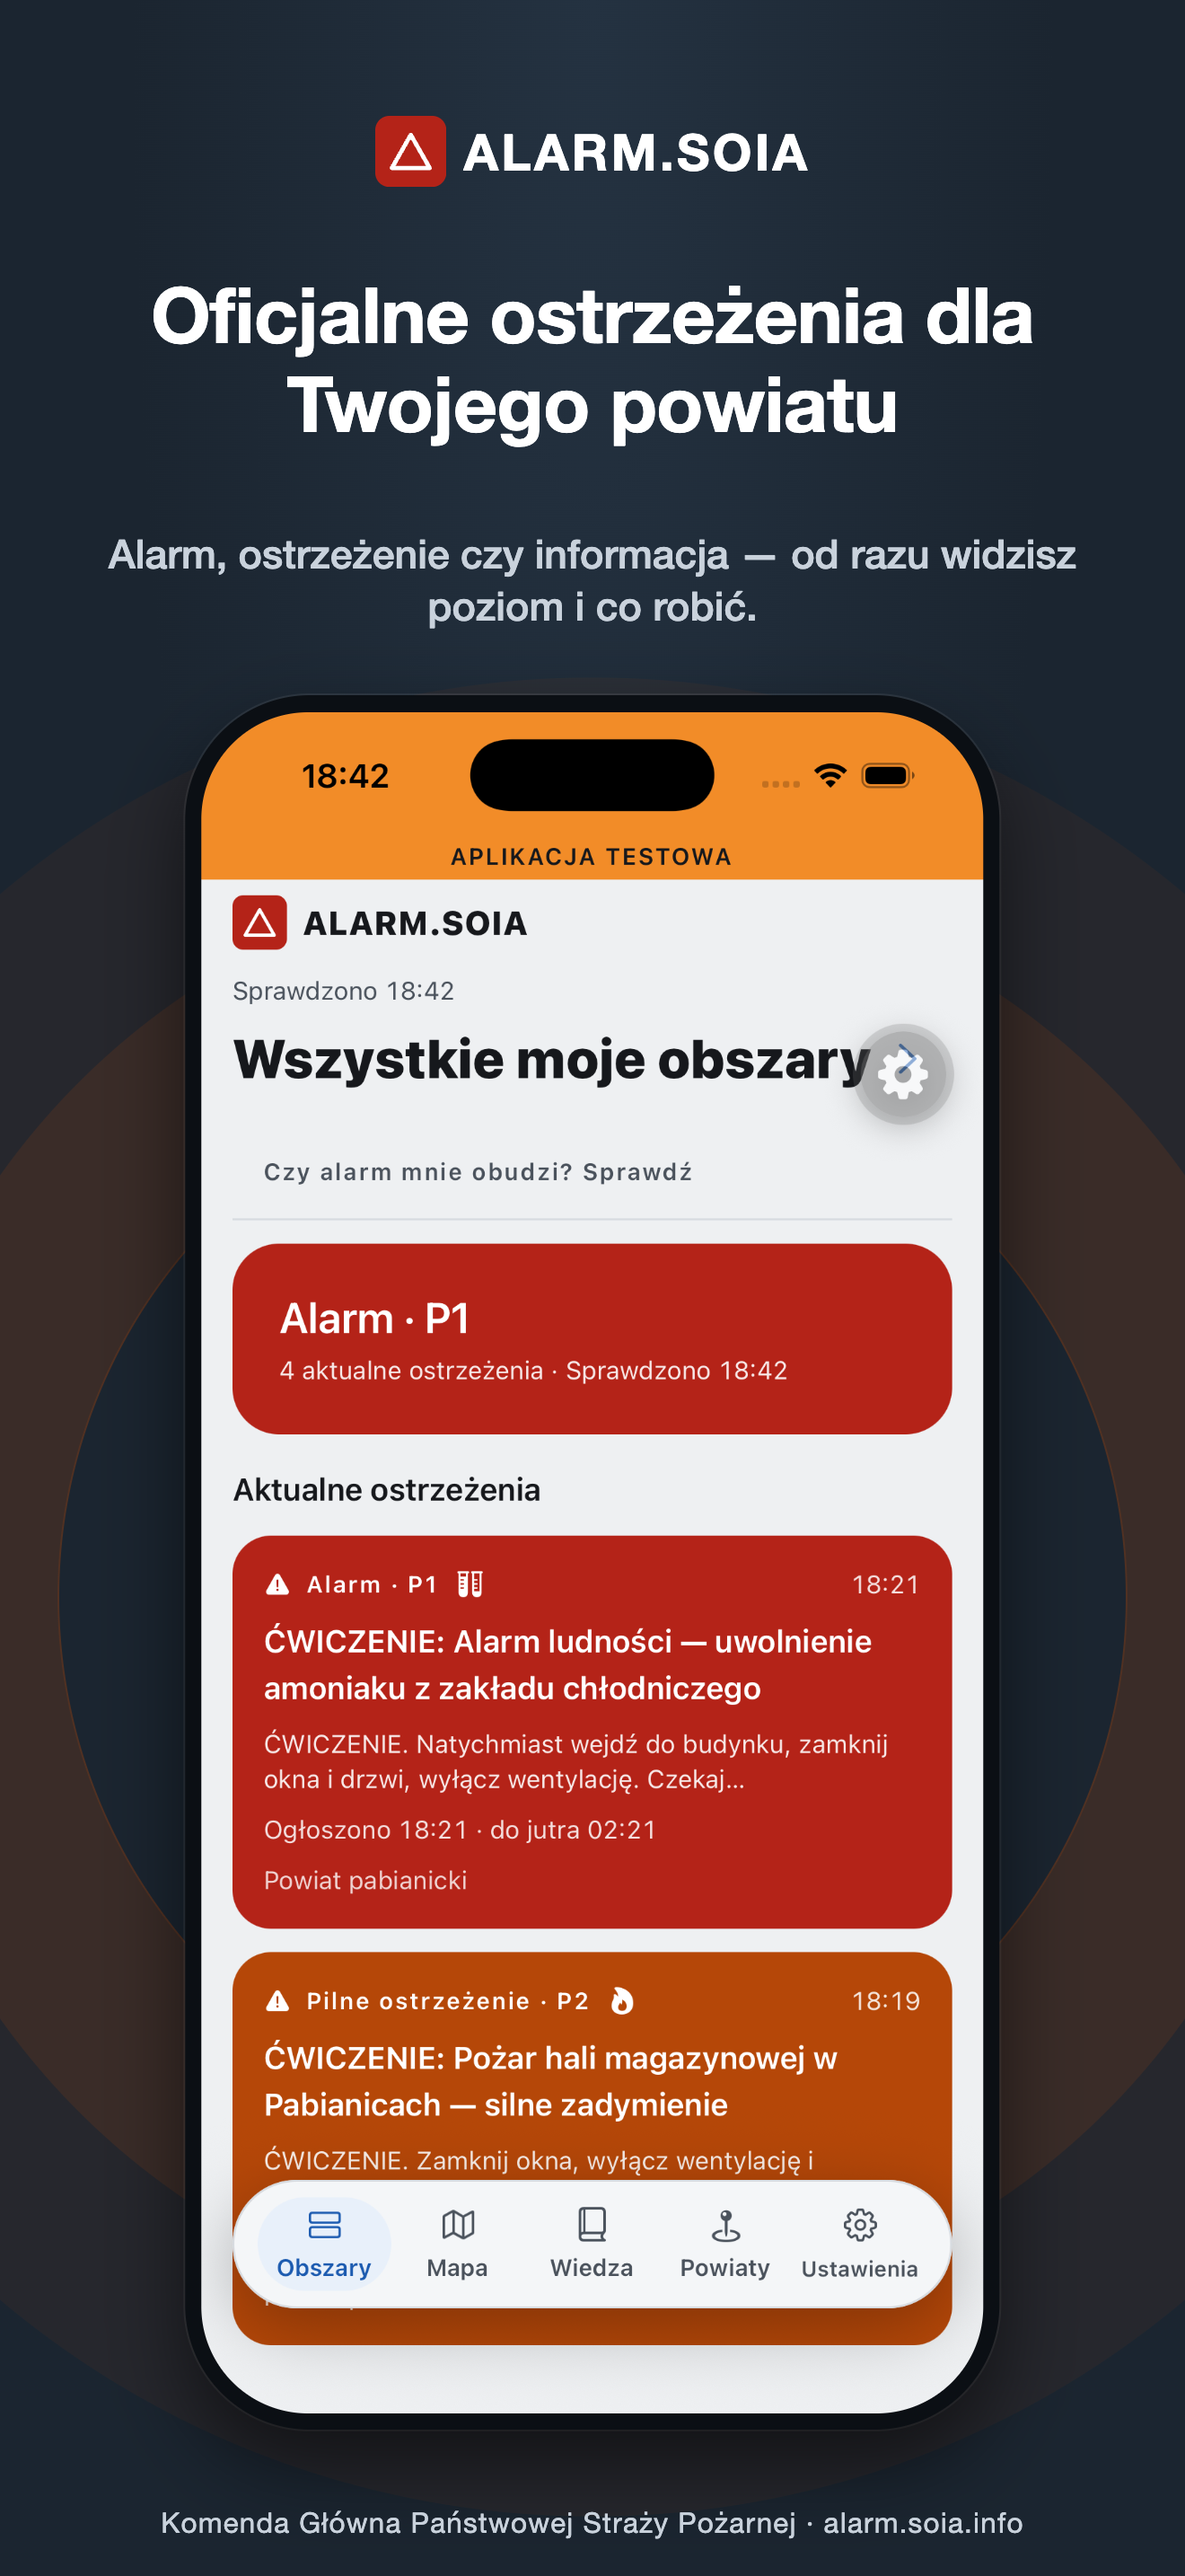
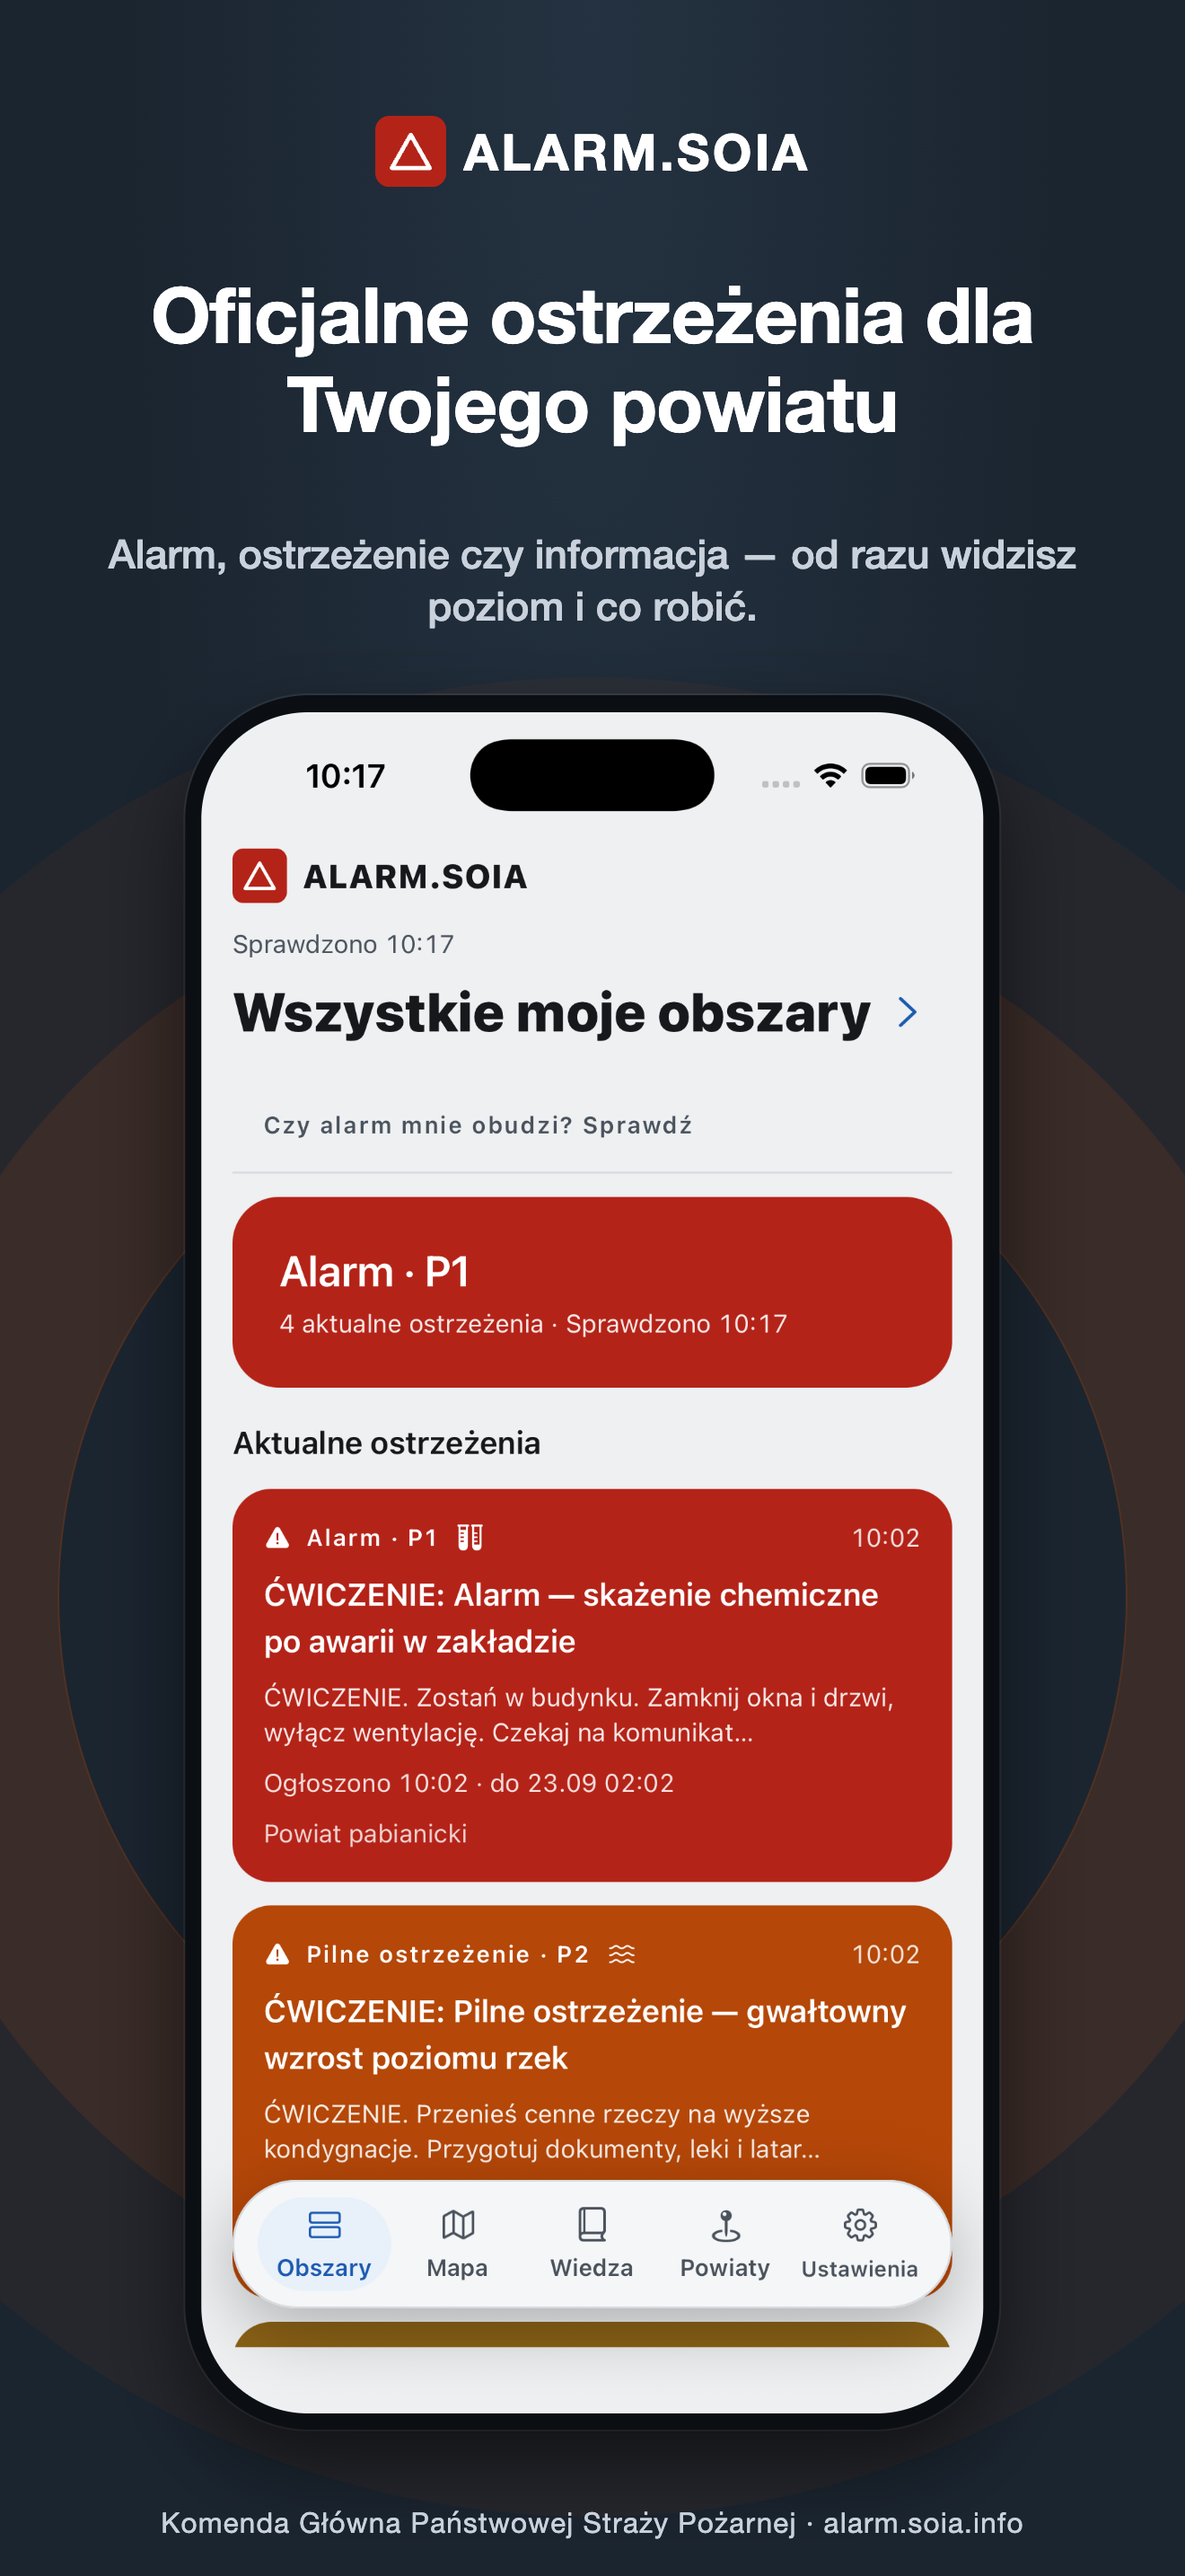
feat(zrzuty): materiały sklepowe bez paska APLIKACJA TESTOWA i zestaw 6,5" dla App Store Connect
Zrzuty App Store (6,9" 1320×2868) i Google Play (1080×1920) wykonane ponownie na kandydacie
wydania publicznego aplikacji (pasek testowy wyłączony, ikony paska statusu dopasowane do tła).
Ostrzeżenia na zrzutach pozostają ćwiczeniami oznaczonymi „ĆWICZENIE”, nadawca to
„Państwowa Straż Pożarna (ćwiczenie)” zamiast RCB (README poz. 8 i 14 rozstrzygnięte).

Nowy zestaw site/assets/app-store/iphone-6.5 (1284×2778): slot 6,5" w App Store Connect
odrzuca wymiar 6,9"; reguła iphone65Screenshots w check-site i asercja w ASSETS-DIMS
(test najpierw czerwony: „zrzutów iPhone 6.5: undefined”, potem 14/14).

Strona główna: opis alt zrzutu w nagłówku i notka pod zrzutami nie mówią już o pasku na
zrzutach; notka wyjaśnia, że pasek mają buildy udostępniane testerom. KONSOLE.md wskazuje
zestaw 6,5" i stan slotu w wersji 1.0.4. Usunięty app.json, który wrócił omyłkowo w 3675faf
(README poz. 6 opisuje go jako usunięty od przejścia na GitHub Pages).

Changed region(s): [[0.1553, 0.2793, 0.8386, 0.8379], [0.1864, 0.8689, 0.8076, 0.931]]

diff --git a/site/index.html b/site/index.html
@@ -49,7 +49,7 @@
         </div>
       </div>
       <div class="hero-visual">
-        <img src="assets/google-play/phone/01-obszary.png" width="1080" height="1920" alt="Ekran Obszary aplikacji ALARM.SOIA: karta „Alarm · P1” i lista ćwiczebnych ostrzeżeń dla powiatu pabianickiego, nad nią pomarańczowy pasek APLIKACJA TESTOWA">
+        <img src="assets/google-play/phone/01-obszary.png" width="1080" height="1920" alt="Ekran Obszary aplikacji ALARM.SOIA: karta „Alarm · P1” i lista ćwiczebnych ostrzeżeń oznaczonych ĆWICZENIE dla powiatu pabianickiego">
       </div>
     </section>
 
@@ -89,7 +89,7 @@
         <figure><img src="assets/google-play/phone/03-wiedza.png" width="1080" height="1920" alt="Ekran Wiedza z pozycjami: Jak czytać alerty, Jak brzmi alarm, Poradnik bezpieczeństwa"><figcaption>Wiedza: alerty, syreny, poradnik</figcaption></figure>
         <figure><img src="assets/google-play/phone/04-powiaty.png" width="1080" height="1920" alt="Ekran Twoje powiaty i województwa z przyciskiem Dodaj powiat lub województwo i wpisem powiat pabianicki, woj. łódzkie"><figcaption>Twoje powiaty i województwa</figcaption></figure>
       </div>
-      <div class="notice notice--test"><strong>Wersja testowa.</strong> Zrzuty pochodzą z buildu kierowanego na ścieżki testowe sklepów: u góry ekranu widać pasek APLIKACJA TESTOWA, a pokazane ostrzeżenia to ćwiczenia oznaczone „ĆWICZENIE:”. Wydanie publiczne nie ma paska, a ostrzeżenia ćwiczebne są zawsze tak oznaczone.</div>
+      <div class="notice notice--test"><strong>Ostrzeżenia ćwiczebne.</strong> Zrzuty pokazują aplikację w wyglądzie wydania publicznego, a widoczne na nich ostrzeżenia to ćwiczenia oznaczone „ĆWICZENIE:” — ostrzeżenia ćwiczebne są zawsze tak oznaczone. Buildy udostępniane obecnie testerom (TestFlight, test wewnętrzny Google Play) mają dodatkowo u góry ekranu pomarańczowy pasek APLIKACJA TESTOWA.</div>
     </section>
 
     <section class="section" aria-labelledby="wydawca-title">

diff --git a/README.md b/README.md
@@ -25,7 +25,7 @@ ani tabletów z Androidem (patrz „Decyzje przed wysyłką”).
 |---|---|
 | `site/` | katalog publikowany 1:1 — płaskie pliki `.html` (`pomoc.html` → `/pomoc`), `404.html`, `robots.txt`, `sitemap.xml`, `assets/` |
 | `site/assets/css/alarm-<8 hex>.css` | jedyny arkusz stylów; nazwa = pierwsze 8 znaków SHA-256 treści (ochrona przed starym cache) |
-| `site/assets/` | znak SVG, ikona 512, grafika promocyjna 1024×500, obraz OG 1200×630, zrzuty App Store (1320×2868) i Google Play (1080×1920) |
+| `site/assets/` | znak SVG, ikona 512, grafika promocyjna 1024×500, obraz OG 1200×630, zrzuty App Store (1320×2868 oraz 1284×2778 dla slotu 6,5") i Google Play (1080×1920) |
 | `data/site.json` | origin publiczny, ścieżka bazowa, lista tras, wydawca, adresy sklepów (puste do publikacji) |
 | `data/dane-przekazywane.json` | fakty o danych opuszczających telefon — jedyne źródło prawdy dla polityki prywatności |
 | `data/app-store.json`, `data/app-store-declarations.json` | wpis i deklaracje App Store Connect (pl-PL + en-GB) |
@@ -104,8 +104,11 @@ IOD, Biuro Ochrony Ludności) przed wpisaniem do konsol sklepów:
    wskazuje GitHub Pages; zmiana origin = nowa wersja aplikacji i edycja obu konsol.
 7. **Zrzuty tabletów Android (opcjonalne)** — aplikacja jest dostępna na tabletach Android
    (`supports-screens`); zrzuty 7"/10" nie są wymagane do publikacji, ale Play może je promować.
-8. **Odświeżenie zrzutów przed wydaniem publicznym** — obecne zrzuty pochodzą z buildu testowego
-   (pasek APLIKACJA TESTOWA, ostrzeżenia „ĆWICZENIE”); przed promocją do sprzedaży wykonać nowe.
+8. **Odświeżenie zrzutów przed wydaniem publicznym** — wykonane 2026-09-21: zrzuty pochodzą
+   z kandydata wydania publicznego (bez paska APLIKACJA TESTOWA). Widoczne ostrzeżenia pozostają
+   ćwiczeniami oznaczonymi „ĆWICZENIE” — materiały sklepowe nie pokazują komunikatu, który mógłby
+   zostać wzięty za prawdziwy alarm. Po zmianie interfejsu widocznego na zrzutach wykonać je ponownie
+   (App Store 6,9" i 6,5", Google Play); wgranie do konsol — `KONSOLE.md`.
 9. **Etykieta treści AI dla grafiki promocyjnej (Google Play)** — tło `feature-graphic.png`
    i `og-image.png` powstało z użyciem generatora obrazów; przy wgrywaniu w Play Console zaznaczyć
    etykietę treści AI. Zrzuty ekranu pokazują prawdziwy interfejs aplikacji.
@@ -122,9 +125,9 @@ IOD, Biuro Ochrony Ludności) przed wpisaniem do konsol sklepów:
     do IOD, bo wersja 1.0.3 nie ma w Ustawieniach kontrolki, która wysyłałaby żądanie usunięcia
     (`DELETE /api/public/devices/{token}`). Decyzja produktowa: wdrożyć w kolejnej wersji (osobny PR)
     i wtedy zaktualizować politykę oraz `deletionNote`.
-14. **Nadawca na zrzutach ćwiczebnych** — alerty ĆWICZENIE na zrzutach mają nadawcę „Rządowe Centrum
-    Bezpieczeństwa” (lokalna Brama sprzed ADR-0109). Przed wydaniem publicznym zrzuty z nadawcą
-    syntetycznym (np. „Powiat Demo (playground)”) razem z pozycją 8.
+14. **Nadawca na zrzutach ćwiczebnych** — rozstrzygnięte 2026-09-21 razem z pozycją 8: alerty
+    ĆWICZENIE na zrzutach mają nadawcę „Państwowa Straż Pożarna (ćwiczenie)”; wcześniejsze zrzuty
+    przypisywały je „Rządowemu Centrum Bezpieczeństwa” (lokalna Brama sprzed ADR-0109).
 
 ## Prawa
 

diff --git a/KONSOLE.md b/KONSOLE.md
@@ -75,8 +75,11 @@ Wpis aplikacji ALARM.SOIA już istnieje (ścieżka wewnętrzna od 1.0.3). Kolejn
 6. **Wersja → Informacje o wersji** (pl-PL i en-GB): tekst promocyjny `promotionalText` (≤170),
    opis `description` (≤4000), słowa kluczowe `keywords` (≤100 bajtów), adres wsparcia
    i marketingu z tabeli wyżej, informacje o wydaniu `releaseNotes`, copyright `copyright`.
-   Zrzuty iPhone 6,9" `site/assets/app-store/iphone-6.9/01–06.png` (1320×2868); tylko iPhone
-   (`deviceFamilies`).
+   Zrzuty iPhone 6,9" `site/assets/app-store/iphone-6.9/01–06.png` (1320×2868); slot 6,5"
+   nie przyjmuje tego wymiaru — dla niego gotowy zestaw `site/assets/app-store/iphone-6.5/01–06.png`
+   (1284×2778, ta sama kompozycja). Tylko iPhone (`deviceFamilies`). Stan konsoli 2026-09-21:
+   w wersji 1.0.4 slot 6,5" ma jeszcze sześć zrzutów z paskiem APLIKACJA TESTOWA — przed wysłaniem
+   do recenzji podmienić na zestaw z repozytorium (bez paska).
 7. **Informacje do recenzji** (`reviewNotes`): logowanie niewymagane; ścieżka testu przez kreator
    pierwszego uruchomienia; okno czasowe na ostrzeżenie testowe ĆWICZENIE dla wskazanego powiatu
    albo nagranie przepływu; Critical Alerts (entitlement zatwierdzony, wniosek `MPJHKAS7D9`) tylko
